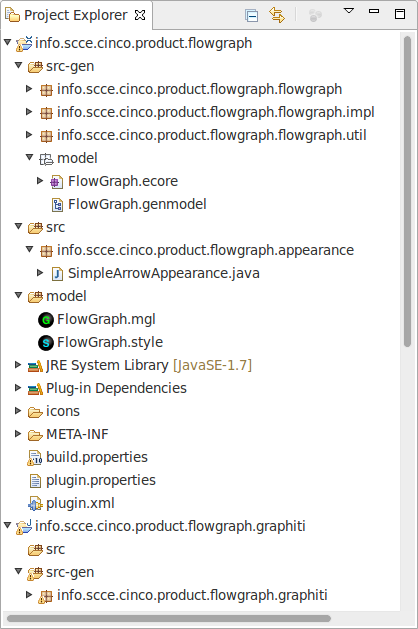
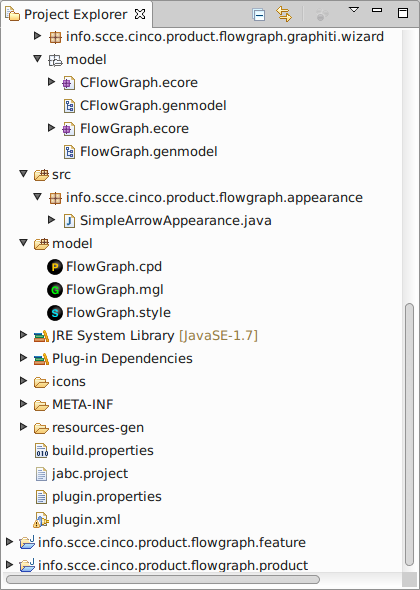
first steps towards a manual for version 0.6

Changed region(s): [[0.0, 0.0, 1.0, 1.0]]

diff --git a/manual/cinco-manual.tex b/manual/cinco-manual.tex
@@ -105,7 +105,7 @@ This document will constantly be revised and extendend. The latest version will
 always be available for download at \url{http://cinco.scce.info/resources/}. 
 
 \begin{description}
-\item[covered version] \cinco v. 0.5
+\item[covered version] \cinco v. 0.6
 \item[git commit id] \gitAbbrevHash{}
 \item[date of build] \today
 \end{description}
@@ -116,8 +116,8 @@ The ``\cinco{} SCCE Meta Tooling Suite'' is an integrated devlopment environment
 (IDE) for the quick and easy development of domain-specific graphical modeling
 tools. \cinco{} makes use of several frameworks from the Eclipse Modeling
 Project, but its main goal is to hide those frameworks' intricacy from the
-tool developer. \cinco{} provides two simple textual specification languages (MGL and
-MSL, see below) for the high-level characterization of the developed tool's
+tool developer. \cinco{} provides three simple textual specification languages (MGL,
+MSL, and CPD, see below) for the high-level characterization of the developed tool's
 structural and visual features. Above that, \cinco{} is also a full Java IDE, so
 that the portions of the developed tool that are not described in a declarative
 way can seamlessly be developed in the same environment.
@@ -125,7 +125,7 @@ way can seamlessly be developed in the same environment.
 Crucial to \cinco is the concept of code generation. Much of the code of a
 modeling tool that is developed with \cinco (in the following called \cinco
 Product, or just CP) is generated automatically from abstract specifications,
-such as the already mentioned MGL and MSL files. It is of utmost importance
+such as the already mentioned MGL, MSL and CPD files. It is of utmost importance
 that you \emph{never} make any changes to automatically generated
 code\footnotemark{}, as all those changes will be gone once the code generation
 is run again.
@@ -193,6 +193,7 @@ Fig.~\ref{fig:firstStart}. The GUI is partitioned into so-called
 big empty grey space on the right) are the most important ones. 
 
 \subsection{Creating a \cinco Product Project}
+\label{sec:wizard}
 
 \begin{figure}
 	\centering
@@ -253,17 +254,17 @@ You might want to take a short look into those initialized files (especially the
 \code{model} folder), but before we delve more deeply
 into their contents (which we will do
 in Sec.~\ref{sec:examplefiles}), let's first generate this example CP and give
-it a try. Just right-click on the \mgl{FlowGraph.mgl} and
+it a try. Just right-click on the \cpd{FlowGraph.cpd} and
 choose \gui{Generate Cinco Product}. Shortly after, your project explorer should
-look like Fig.~\ref{fig:cpPostGen}. Several new files, directories and a new
-project -- which will be even more than one once you start using advanced
+look like Fig.~\ref{fig:cpPostGen}. Several new files, directories, and
+projects -- which will be even more once you start using advanced
 features of \cinco{}, such as meta plug-ins -- have been generated. Also, the
 compile error we've noticed before is gone. 
 
 Whenever you change the CP's specification files, you need to re-generate the
-code. Sometimes you also need to delete all the generated code, e.g. when
-deleting or renaming a node type. But as you never do any manual changes to the
-generated code, this is no problem. 
+code. Previously generated code (i.e. everything that is in a *-gen folder and
+all generated projects) will be deleted on re-generation. But as you never do
+any manual changes to the generated code, this is no problem. 
 
 \subsection{Testing the \cinco Product} \label{sec:testing}
 
@@ -277,10 +278,11 @@ starting your product (via the \gui{Run As} menu) you will actually start your
 tool including \emph{all} the \cinco plug-ins and libraries. In fact, you start
 a second \cinco enriched with the new features we just generated. In the long run, this 
 not what is desired, because a tool developer needs to work with different tools
-than the tool user. The advanced topic of own product definitions with a minimal
-required set of plug-ins will be added to this manual later. We even plan
-to eventually provide automization for this task. For testing purposes, however,
-this does not impose any obstacles other than ample unnecessary GUI elements.}
+than the tool user. You might have noticed the new .product project. This
+is a generated Eclipse product definition that provides an easy way of exporting your
+tool with an own branding (splash screen, icons, etc.) into a standalone
+application. For testing purposes, however, the easy way should be favored, as
+it does not impose any obstacles other than ample unnecessary GUI elements.}
 
 Again, you should see an empty tool like Fig.~\ref{fig:firstStart}. To create a
 new model we first need a new project where it can be placed. This time,
@@ -324,7 +326,7 @@ The modeling elements abide by the following syntactic rules:
 \item \code{Activity} (blue box) nodes have multiple outgoing edges of type
 	\code{LabeledTransition}, and may have multiple incoming edges of both types.
 	The attribute \code{Name} is displayed centered within the box.
-\item \code{LabeledTransition} edges connect \code{Inner} nodes with others and
+\item \code{LabeledTransition} edges connect \code{Activity} nodes to arbitrary other nodes and
 	have their attribute \code{Label} displayed as movable caption next to it.
 \item \code{Transition} edges only originate from \code{Start} nodes. If such an
 	edge directly leads to an \code{End} node, it is displayed with a dashed
@@ -338,15 +340,15 @@ discussion on the contents of those files.
 \section{Discussion on the Example Files}
 \label{sec:examplefiles}
 
-We consider our specification formats MGL and MSL fairly self-explanatory,
+We consider our specification formats MGL, MSL, and CPD fairly self-explanatory,
 meaning that one usually can understand most of their contents without detailed
 knowledge on available keywords or syntactic structures. This section
 will nonetheless detail on our two example files, but you might want to have a look at
-your \mgl{FlowGraph.mgl} and \msl{FlowGraph.style} beforehand, to decide for
+your \mgl{FlowGraph.mgl}, \msl{FlowGraph.style}, and \cpd{FlowGraph.cpd} beforehand, to decide for
 yourself. 
 
-However, writing a programming or specification language usually is a totally
-different matter. But here, \cinco heavily benefits from it being implemented
+However, writing (instead of just understanding) a programming or specification language usually is a totally
+different matter. But here, \cinco heavily benefits from being implemented
 with libraries from the Eclipse Modeling Project, in this case especially Xtext:
 The so-called \newnotion{Content Assist} that is generated for every Xtext-based
 editor provides a very useful autocompletion when
@@ -360,7 +362,10 @@ Modeling tool development with \cinco centers around two textual specification
 files. On the one hand we have a file in the ``Meta Graph Language'' (MGL) that
 contains the structural information on the tool's model. On the other hand, a
 ``Meta Style Language'' (MSL) file\footnotemark{} is required to specify the
-visual characteristics (e.g.  shapes and colors) of this model. The following
+visual characteristics (e.g.  shapes and colors) of this model. The third
+specification format is the ``\cinco Product Definition'' (CPD), which is the
+entry point for the generation. In it, (potentially) multiple MGL files can be
+given that are generated in one sweep. The following
 subsections will each provide an introduction to one of this specification
 languages alongside the example files created by the new project wizard.
 
@@ -373,7 +378,7 @@ release.}
 \includemgl{listings/FlowGraph.mgl}{FlowGraph MGL file}{lst:myMGL}
 
 Listing \ref{lst:myMGL} shows the \mgl{FlowGraph.mgl} as it was initialized in
-Sec.~\ref{sec:firstLaunch}. Aside from some general configuration stuff in lines
+Sec.~\ref{sec:wizard}. Aside from some general configuration stuff in lines
 1-7 and an attribute declaration in line 9, it contains three two different kinds of modeling component declaration:
 \begin{itemize}
 \item Node type definitions (3x)
@@ -517,7 +522,7 @@ the \gui{Project Explorer} (cf. Fig. \ref{fig:firstModel})
 \includestyle{listings/FlowGraph.style}{FlowGraph MSL file}{lst:myMSL}
 
 Listing \ref{lst:myMSL} shows the \msl{FlowGraph.style} as it was initialized
-in Sec.~\ref{sec:firstLaunch}. It consists of appearances, node styles, and
+in Sec.~\ref{sec:wizard}. It consists of appearances, node styles, and
 edge styles, which will individually be discussed in the following paragraphs.
 
 \subsubsection{Appearances}
@@ -635,6 +640,45 @@ should cover most use cases: \kw{ARROW}, \kw{CIRCLE}, \kw{DIAMOND}, and
 \kw{TRIANGLE}. In combination with an appropriate appearance to simulate filled
 and unfilled versions, e.g. UML's most prominent arrow types can simply be
 defined.
+
+\subsection{CPD File}
+Up to \cinco version 0.5.1 a single MGL file was the central artifact of a CP. Thus,
+it was not easily possible to combine multiple MGL files into one
+application\footnotemark{}. As of version 0.6 \cinco therefore provides a new
+%
+\footnotetext{
+It could be done by specifying multiple MGLs in different Eclipse bundles and
+then manually managing the dependencies between them and the additionally
+generated bundles. However, this requires more detailed knowledge on internal
+Eclipse plug-in development structures and is not suitable for the target audience of \cinco.
+}%
+%
+specification language to serve as entry point for the generation of multiple
+MGLs. Listing~\ref{lst:myCPD} shows the \cpd{FlowGraph.cpd} as it was
+initialized in Sec.~\ref{sec:wizard}. For this first example the file is
+quite small, only providing two things:
+
+\begin{enumerate}
+\item the name of the CP, here ``FlowGraphTool'', is given after the
+\kw{cincoProduct} keyword
+\item the only MGL file of our project is given after the \kw{mgl} keyword
+\end{enumerate}
+
+\includecpd{listings/FlowGraph.cpd}{FlowGraph CPD file}{lst:myCPD}
+
+Beyond the possibility to have multiple \cinco{}-based model types, \cinco{}
+also generates the appropriate Eclipse bundles from the CPD that allow for an
+easy export of the CP into a standalone application.  It is even possible to
+define a branding (i.e. dedicated startup splash screen, about text, icons,
+etc.) within the CPD file. For reference, Listing~\ref{lst:brandingCPD} shows
+the product definition, when \gui{Product branding} is selected in the \cinco{}
+product creation wizard (cf. Sect.~\ref{sec:wizard}).
+
+\includecpd{listings/FlowGraphBranding.cpd}{FlowGraph CPD file with product
+branding}{lst:brandingCPD}
+
+
+
 
 
 \chapter{Language Reference}

diff --git a/manual/listings.tex b/manual/listings.tex
@@ -90,6 +90,39 @@
 
 \newcommand{\includestyle}[3]{\lstinputlisting[style=style, float=tb, caption=#2, label=#3, captionpos=b]{#1}}
 
+\lstdefinestyle{cpd}{
+   %language=XML,
+   columns=fixed,
+	breaklines=true,
+	numbers=left,
+	numberstyle=\tiny,
+	stepnumber=1,
+	numbersep=5pt,
+   showspaces=false,
+   showstringspaces=false,
+   frame=tblr,
+   tabsize=2,
+   frame=shadowbox,
+   columns=fixed,
+   basicstyle=\ttfamily\scriptsize,
+   %basicstyle=\scriptsize,
+   rulesepcolor=\color[rgb]{0.6, 0.6, 0.6},
+   keywordstyle=\color[rgb]{0.5,0,0.4}\textbf, 
+   %keywordstyle=\color[rgb]{0.5,0,0.4}\bfseries, 
+   %keywordstyle=\color[rgb]{0.5,0,0.4},
+   stringstyle=\color{blue},
+   commentstyle=\color[rgb]{0.4,0.7,0.4},
+   backgroundcolor=\color[rgb]{0.97,0.97,0.97},
+	morekeywords={cincoProduct, mgl, about, features, image16, image32, image48,
+	image64, image128, linuxIcon, plugins, splashScreen, text, imagePath,
+	progressBar, progressMessage},
+	morestring=[b]",
+   showtabs=false,
+	morecomment=[l]{//},
+	morecomment=[s]{/*}{*/}
+}
+
+\newcommand{\includecpd}[3]{\lstinputlisting[style=cpd, float=tb, caption=#2, label=#3, captionpos=b]{#1}}
 
 \lstdefinestyle{java}{
    language=Java,

diff --git a/manual/macros.tex b/manual/macros.tex
@@ -6,6 +6,7 @@
 \newcommand{\gui}[1]{\flqq{}\textsf{#1}\frqq{}}
 \newcommand{\mgl}[1]{\raisebox{-0.05em}{\mbox{\includegraphics[height=0.7em]{icons/mgl_icon.pdf}}\kern 0.2em \code{#1}}}
 \newcommand{\msl}[1]{\raisebox{-0.05em}{\mbox{\includegraphics[height=0.7em]{icons/msl_icon.pdf}}\kern 0.2em \code{#1}}}
+\newcommand{\cpd}[1]{\raisebox{-0.05em}{\mbox{\includegraphics[height=0.7em]{icons/cpd_icon.pdf}}\kern 0.2em \code{#1}}}
 
 % Thanks to Thorsten Donig for the nice keystroke visualization
 % https://tex.stackexchange.com/questions/5226/keyboard-font-for-latex#5227
